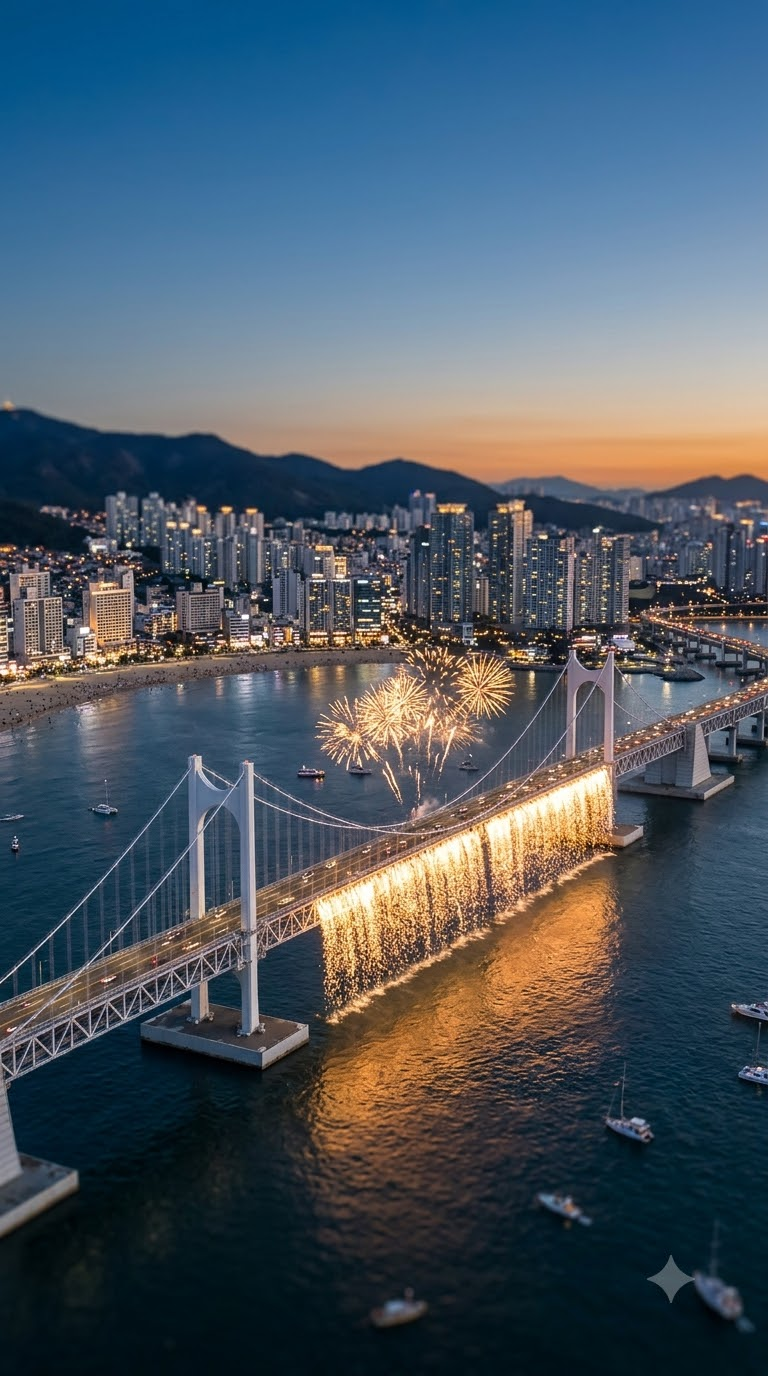
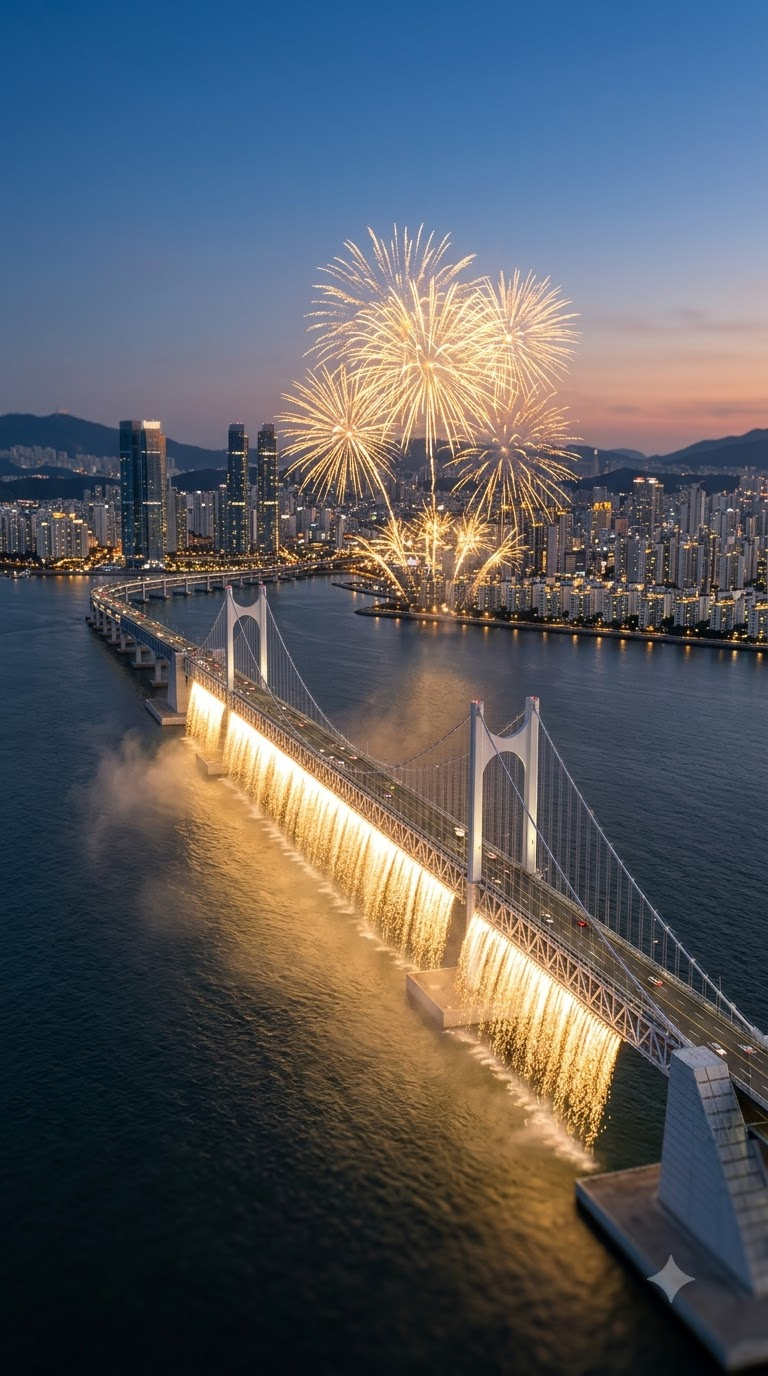
63: 그림 01 (새 프롬프트·참고 사진), 옛 01·01b는 img/버림/

diff --git a/shorts/media/63/in/NOTES.md b/shorts/media/63/in/NOTES.md
@@ -1,12 +1,13 @@
 # 63편 광안리 불꽃축제 — 그림 기록 (Aside)
 
-- Flow 프로젝트 "숨은 설비 이야기 63 광안리 불꽃축제 이탄생" · 이미지 · Nano Banana 2.1 · 9:16 · x1 · 0 크레딧 · 참고 그림 없음
-- 프롬프트: `shorts/produce/63_prompts.txt` 그대로(한 글자도 안 바꿈). 편집 그림(04←03, 07←06)은 지정 번호를 열어 편집
+- Flow 프로젝트 "숨은 설비 이야기 63 광안리 불꽃축제 이탄생" · 이미지 · Nano Banana 2.1 · 9:16 · x1 · 0 크레딧
+- 참고 그림: 다리 나오는 그림(01·01b·02·03·04·09·12·13·14)에 `ref/ref2.jpg`·`ref/ref3.jpg` 두 장 붙임(d46b0e5 실사 기준). 나머지는 참고 그림 없음
+- 프롬프트: `shorts/produce/63_prompts.txt` d46b0e5판 그대로(한 글자도 안 바꿈). 편집 그림(04←03, 07←06)은 지정 번호를 열어 편집
 - 받기: Flow 1K 원본(768×1376 jpg) → `img/NN.jpg`. 로컬 `~/Downloads/숨은설비/63/`
 - 다시 뽑은 횟수 0 = 첫 장 통과. 버린 후보는 Flow 프로젝트에만 남음
+- d46b0e5 전 프롬프트(참고 그림 없음)로 먼저 만든 01·01b는 `img/버림/`으로 옮김. 02는 옛 프롬프트로 2장 뽑다가 멈춤(안 씀)
 - 클립은 만들지 않음
 
 | 번호 | 다시 뽑은 횟수 | 이유 | 메모 |
 |---|---|---|---|
-| 01 | 0 | - | 노을 직후 높은 항공, 흰 주탑 2개 2층 현수교, 위층 가장자리 금빛 나이아가라, 뒤 초승달 백사장·호텔 줄, 만 안쪽 작은 불꽃. 하늘 위는 짙은 파랑·지평선 주황, 바다는 어두운 편 |
-| 01b | 1 | 1차: 왼쪽 건물 1층 빨간 조명 띠·오른쪽 옥상 빨간 불빛, 다리가 1층 상판처럼 보임 | 2차판 채택: 사람 눈높이 백사장, 흰 인형 관객 가득, 밝은 파란 하늘·지평선 노을, 흰 주탑 2개·깊은 트러스 상판, 위층 가장자리 금빛 나이아가라, 왼쪽 호텔 줄. 먼 건물 옥상에 아주 작은 붉은 불빛 하나 |
+| 01 | 0 | - | 참고 사진과 같은 흰 트러스 2층 상판·둥근 아치 흰 주탑 2개·오른쪽 아래 흰 앵커 블록·왼쪽 긴 접속교, 뒤 쌍둥이 유리 빌딩과 해안 아파트 줄, 아래층 가장자리 금빛 나이아가라, 하늘 위 큰 금빛 불꽃. 노을 직후 짙은 파랑+지평선 분홍. 하늘이 위 약 1/3로 조금 넓음 |
